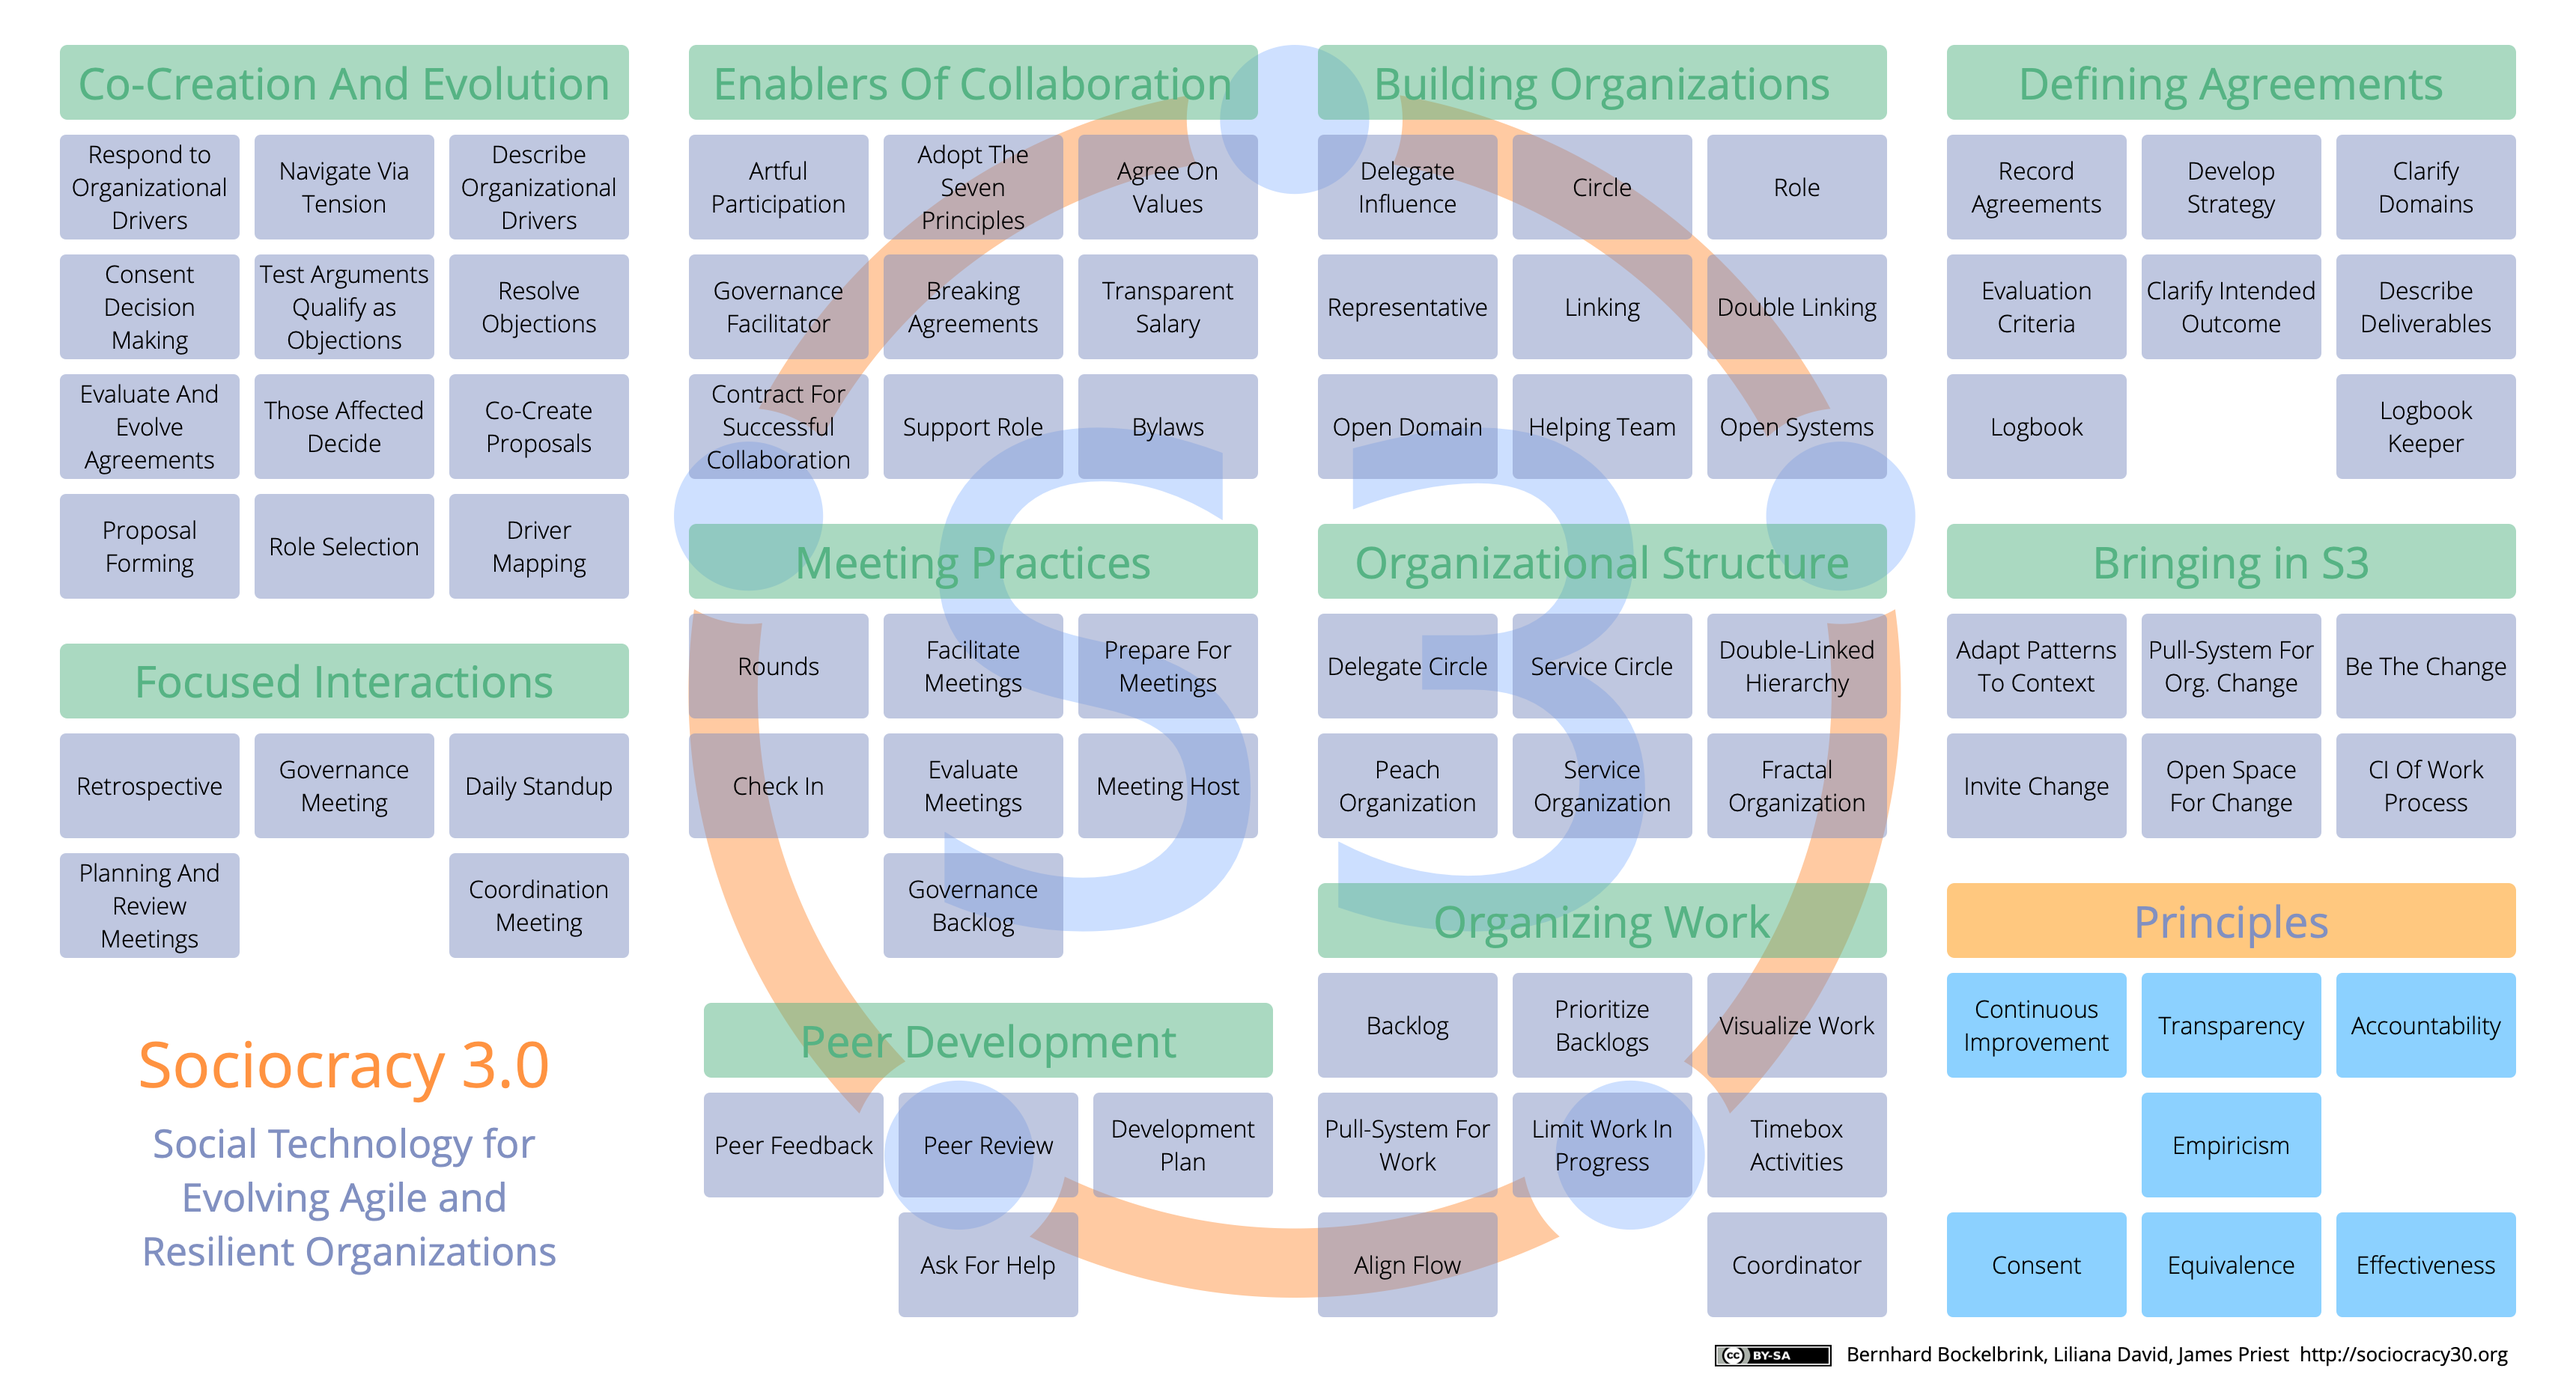
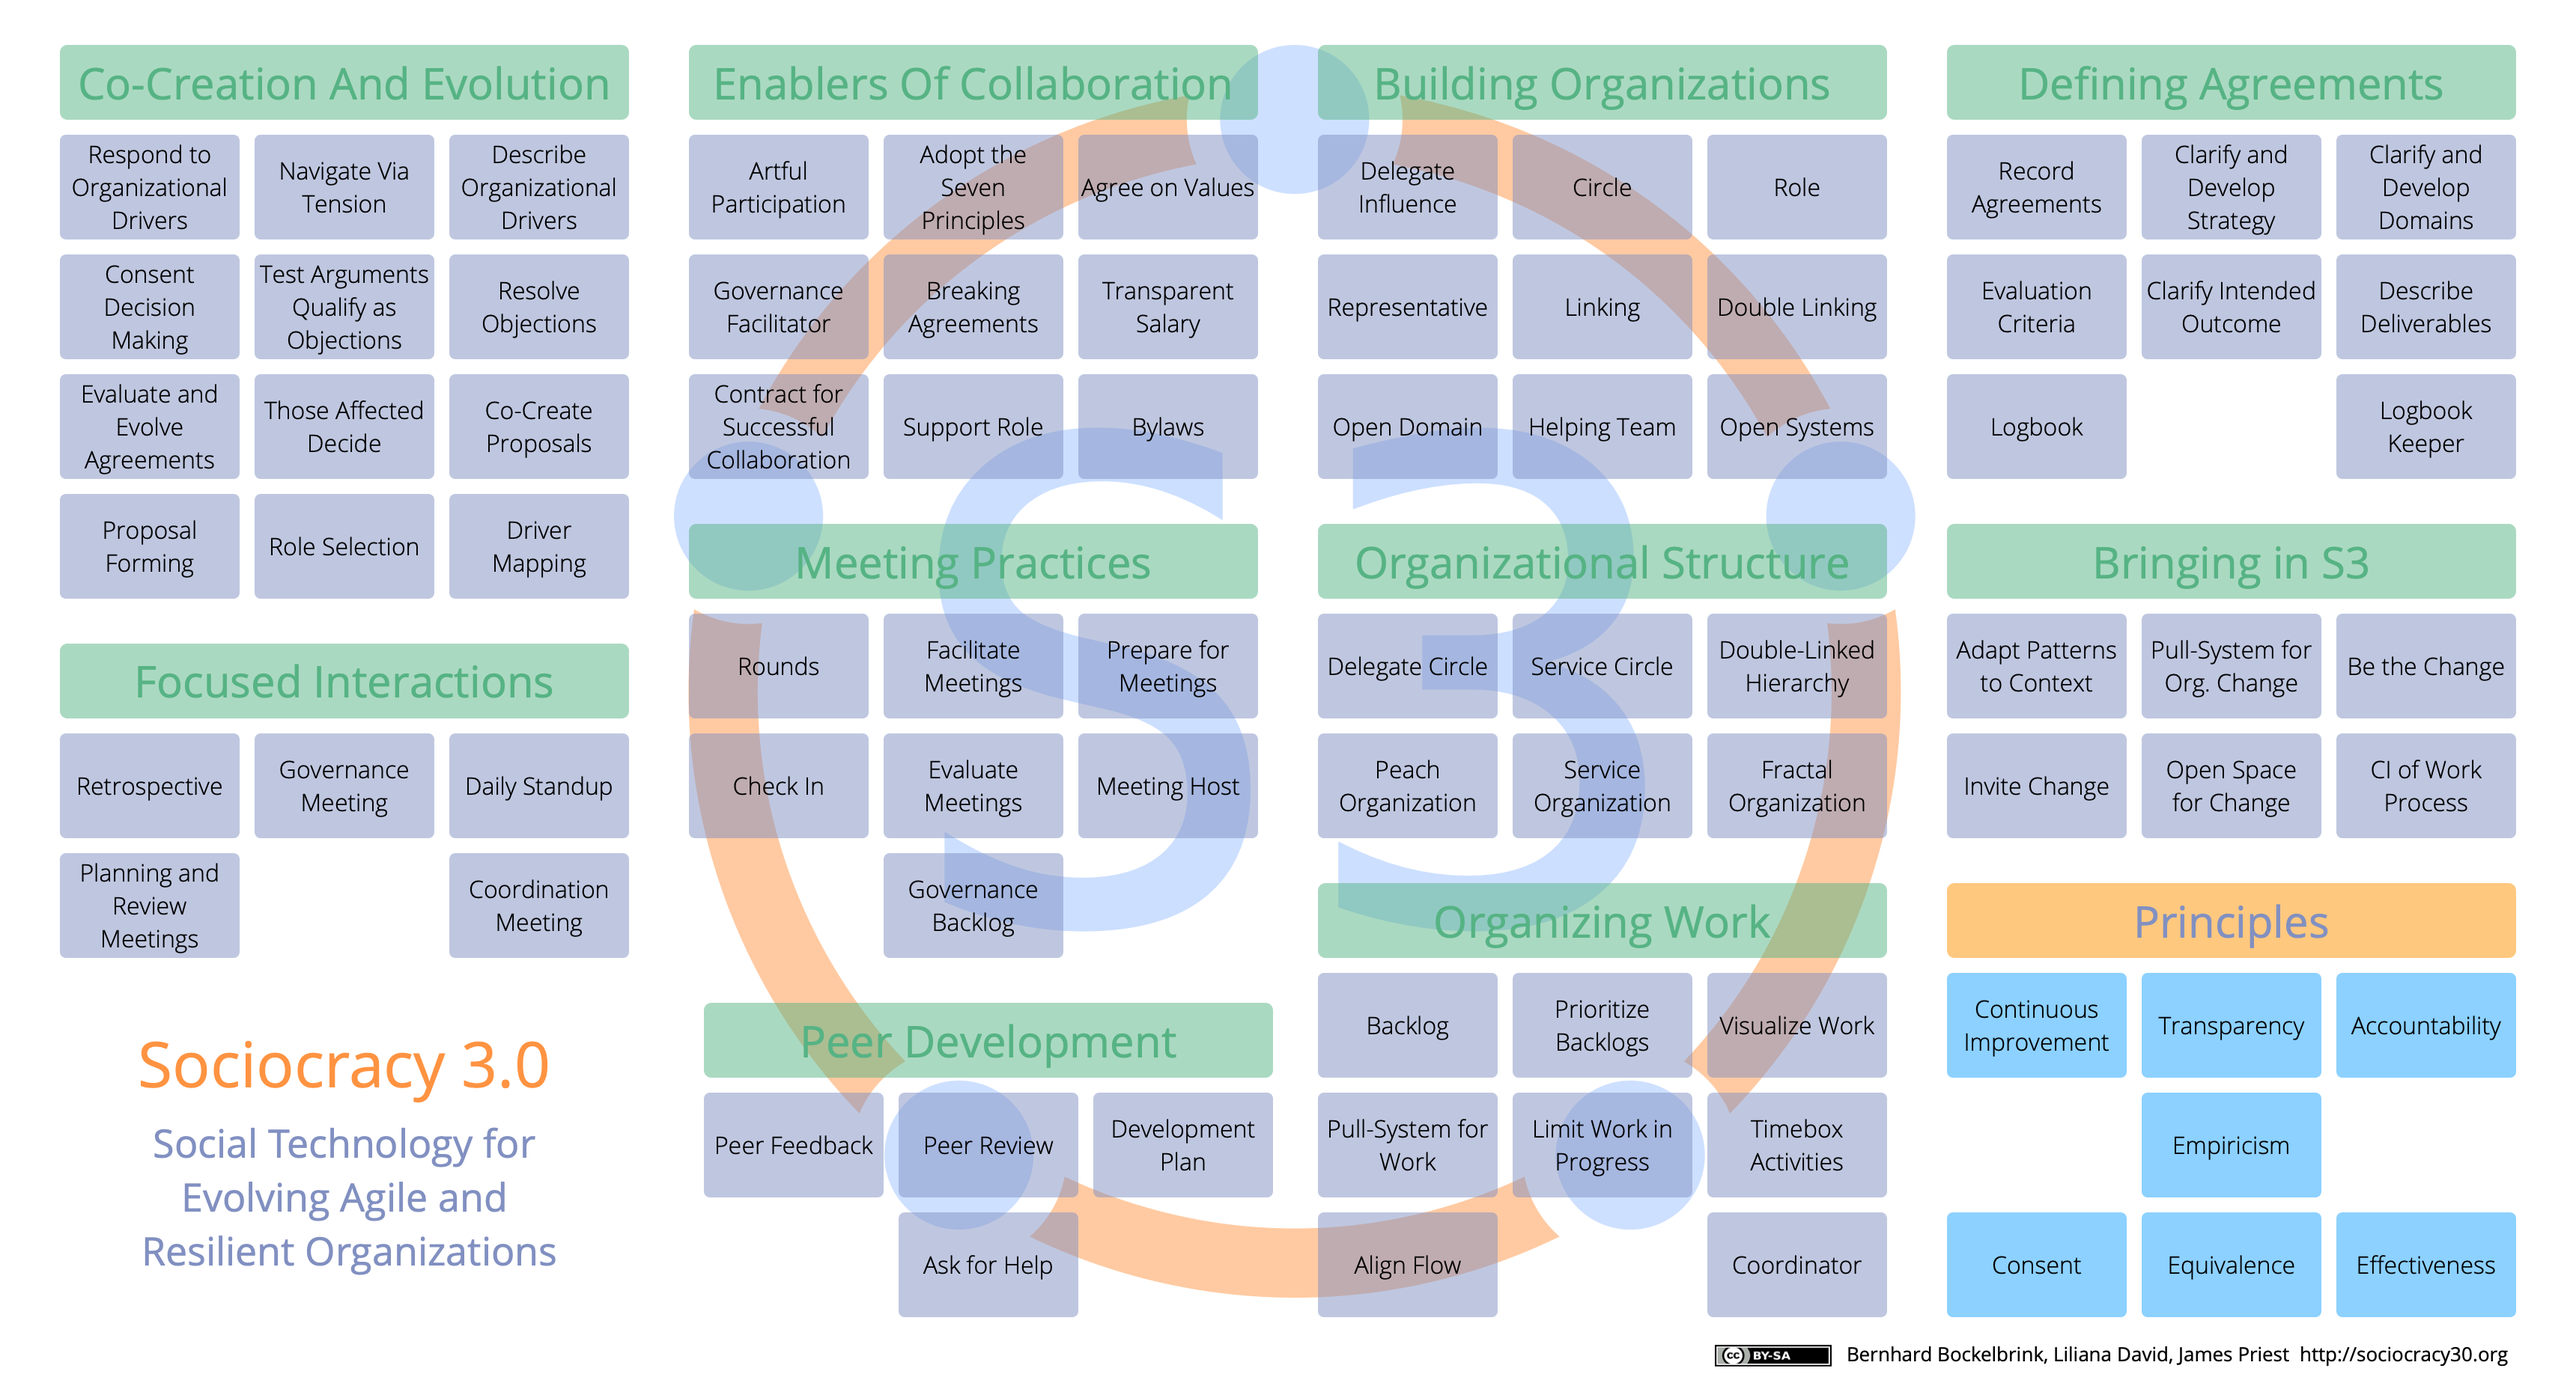
renamed 2 patterns

diff --git a/templates/website/pattern-map.html b/templates/website/pattern-map.html
@@ -61,13 +61,13 @@
 	<area shape=rect coords="170,490,290,560" href="https://${microsite_cname}/governance-meeting.html">
 	<area shape=rect coords="40,429,420,480" href="https://${microsite_cname}/focused-interactions.html">
 	<area shape=rect coords="1560,170,1680,240" href="https://${microsite_cname}/describe-deliverables.html">
-	<area shape=rect coords="1560,90,1680,160" href="https://${microsite_cname}/clarify-domains.html">
+	<area shape=rect coords="1560,90,1680,160" href="https://${microsite_cname}/clarify-and-develop-domains.html">
 	<area shape=rect coords="1300,170,1420,240" href="https://${microsite_cname}/evaluation-criteria.html">
 	<area shape=rect coords="1430,170,1550,240" href="https://${microsite_cname}/clarify-intended-outcome.html">
 	<area shape=rect coords="1560,250,1680,320" href="https://${microsite_cname}/logbook-keeper.html">
 	<area shape=rect coords="1300,250,1420,320" href="https://${microsite_cname}/logbook.html">
 	<area shape=rect coords="1300,90,1420,160" href="https://${microsite_cname}/record-agreements.html">
-	<area shape=rect coords="1430,90,1550,160" href="https://${microsite_cname}/develop-strategy.html">
+	<area shape=rect coords="1430,90,1550,160" href="https://${microsite_cname}/clarify-and-develop-strategy.html">
 	<area shape=rect coords="1300,30,1680,80" href="https://${microsite_cname}/defining-agreements.html">
 	<area shape=rect coords="590,250,710,320" href="https://${microsite_cname}/support-role.html">
 	<area shape=rect coords="590,170,710,240" href="https://${microsite_cname}/breaking-agreements.html">

diff --git a/content/src/appendix/changelog.md b/content/src/appendix/changelog.md
@@ -3,19 +3,22 @@
 
 ### Changes 2021-01-xx
 
--   [Clarify Domains](section:clarify-domains): revised text, added more details and explanations about domain descriptions
+-   **Renamed Patterns:**
+    - renamed _Clarify Domains_ to _Clarify and Develop Domains_
+    - renamed _Develop Strategy_ to _Clarify and Develop Strategy_
+-   [Clarify and Develop Domains](section:clarify-and-develop-domains): revised text, added more details and explanations about domain descriptions
 -   [Peer Review](section:peer-review): added more details about what should be reviewed
 -   [Peer Feedback](section:peer-feedback): revised the text and added more details
 -   [Breaking Agreements](section:breaking-agreements): added summary
 -   added glossary entry for "metric"
 -   revised glossary entry for "governance"
 -   [Describe Organizational Drivers](section:describe-organizational-drivers): revised text
--   Appendix: 
-    -   added a disclaimer 
-    -   added more information about the authors
 -   Introduction: 
     -   added more details to the section about Domains and delegation
     -   removed illustration in the section about patterns and listed the pattern groups in the text 
+-   Appendix: 
+    -   added a disclaimer 
+    -   added more information about the authors
 
 
 ### Changes 2020-05-08

diff --git a/content/src/defining-agreements/clarify-and-develop-domains.md b/content/src/defining-agreements/clarify-and-develop-domains.md
@@ -1,4 +1,4 @@
-## Clarify Domains
+## Clarify and Develop Domains
 
 <summary>
 **A clear understanding of people’s area of responsibility and autonomy enables greater efficiency, effective collaboration, and agility throughout an organization.**

diff --git a/content/src/defining-agreements/clarify-and-develop-strategy.md b/content/src/defining-agreements/clarify-and-develop-strategy.md
@@ -1,4 +1,4 @@
-## Develop Strategy
+## Clarify and Develop Strategy
 
 <summary>
 {{define:strategy}}
